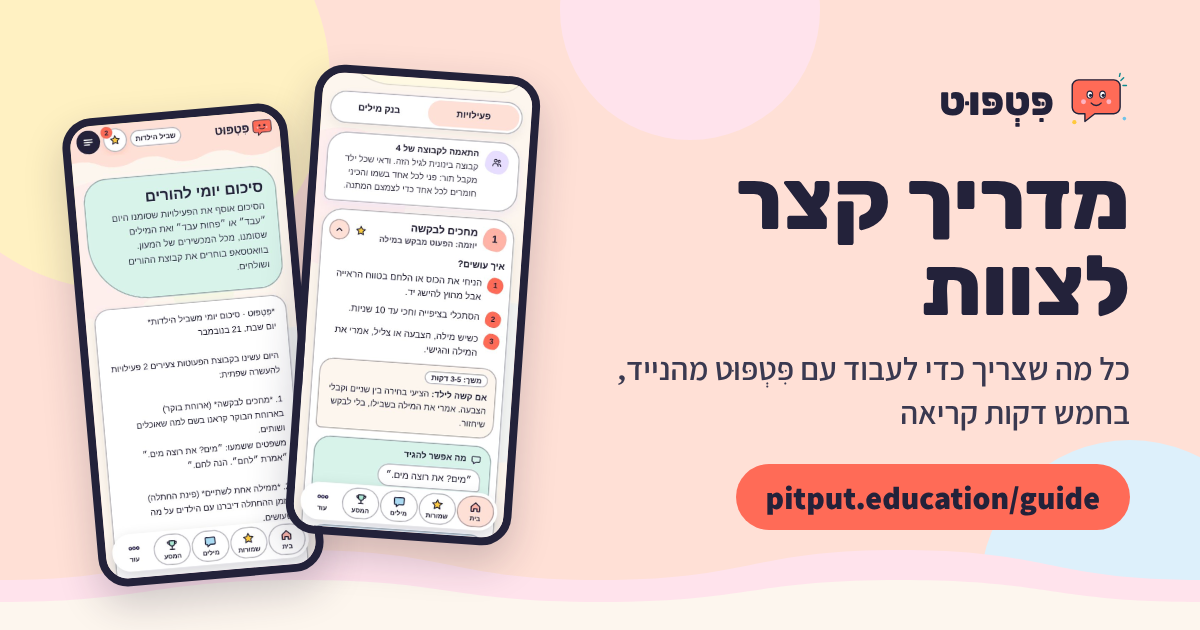
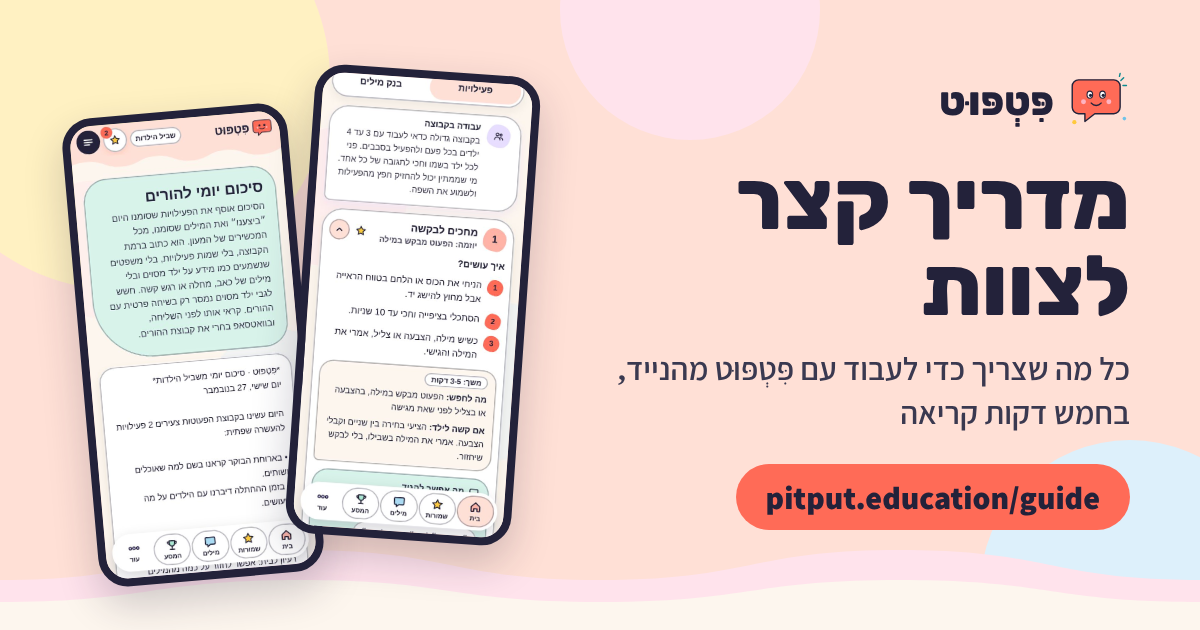
מדריך: שינוי בחירה, לשונית בנק מילים, רענון הסיכום, תגים, אודות; תמונת שיתוף מעודכנת
Claude-Session: https://claude.ai/code/session_017bUdyqGvVogSxHgrGcCQF1

diff --git a/guide/index.html b/guide/index.html
@@ -113,6 +113,7 @@ footer{text-align:center;color:var(--muted);font-size:14px;margin-top:30px}
   <h2><span class="num">3</span>קוראים כרטיס פעילות</h2>
   <ul>
    <li>לחצי על פעילות כדי לפתוח אותה. בראש הרשימה יש טיפ לעבודה בקבוצה.</li>
+   <li><span class="pill">שינוי בחירה</span> מחזיר לבחירת גיל ומרחב. הלשונית <span class="pill">בנק מילים</span> מציגה את המילים של המרחב.</li>
    <li><b>איך עושים:</b> 3 צעדים קצרים.</li>
    <li><b>משך, מה לחפש, להמתין, אם קשה לילד:</b> כמה זמן, מה אמור לקרות אצל הילדים, מתי לחכות לתגובה ומה עושים כשקשה.</li>
    <li><b>מה אפשר להגיד:</b> משפטים מוכנים. במקום <b>[שם]</b> אמרי את שם הילד.</li>
@@ -154,10 +155,10 @@ footer{text-align:center;color:var(--muted);font-size:14px;margin-top:30px}
  <div>
   <h2><span class="num">6</span>סיכום יומי להורים</h2>
   <ul>
-   <li>בסוף היום לחצי <span class="pill">סיכום יומי להורים</span> במסך הבית.</li>
+   <li>בסוף היום לחצי <span class="pill">סיכום יומי להורים</span> במסך הבית או בתפריט. זמין בכניסת מעון בלבד.</li>
    <li>הסיכום נבנה לבד מהפעילויות שסומנו היום "ביצענו" ומהמילים שסומנו, מכל המכשירים של המעון.</li>
    <li>עבדת עם כמה קבוצות גיל? בחרי קבוצה ושלחי לכל קבוצת הורים את הסיכום שלה.</li>
-   <li>קראי, ושלחי בוואטסאפ לקבוצת ההורים.</li>
+   <li>סימנו עוד משהו? <span class="pill">רענון הסיכום</span>. אחר כך קראי ושלחי בוואטסאפ לקבוצת ההורים.</li>
   </ul>
   <div class="note">הסיכום כתוב בשפה של הורים, בלי מונחים מקצועיים.</div>
  </div>
@@ -169,7 +170,7 @@ footer{text-align:center;color:var(--muted);font-size:14px;margin-top:30px}
   <h2><span class="num">7</span>הפעילויות שלי והמסע שלי</h2>
   <ul>
    <li><b>שמורות</b> בסרגל התחתון: כל מה ששמרת, מוכן לפתיחה ולשיתוף.</li>
-   <li><b>המסע</b>: כמה פעילויות ניסית, כמה עבדו, כמה מילים סימנת ומה ניסית בכל מרחב.</li>
+   <li><b>המסע</b>: כמה פעילויות ניסית, כמה עבדו, כמה מילים סימנת, מה ניסית בכל מרחב, ותגים שצברת.</li>
   </ul>
  </div>
  <img class="phone" src="img/15-saved.jpg" alt="הפעילויות שלי">
@@ -183,6 +184,7 @@ footer{text-align:center;color:var(--muted);font-size:14px;margin-top:30px}
    <li>הכפתור הכהה בפינה, או <span class="pill">עוד</span> בסרגל התחתון.</li>
    <li><b>עקרונות וטיפים:</b> ארבעת הרגלים שמלווים את כל הפעילויות.</li>
    <li><b>נגישות ותצוגה:</b> טקסט גדול ובלי אנימציות.</li>
+   <li><b>אודות ומקורות:</b> על מה הפעילויות מבוססות.</li>
    <li><b>הוספת המעון שלי:</b> פותח מייל לבקשת הצעת מחיר.</li>
    <li><b>סרטון הסבר ומדריך קצר לצוות:</b> זמינים תמיד מכאן, וגם במסך הכניסה.</li>
    <li><b>התנתקות:</b> כשהנייד משותף.</li>
